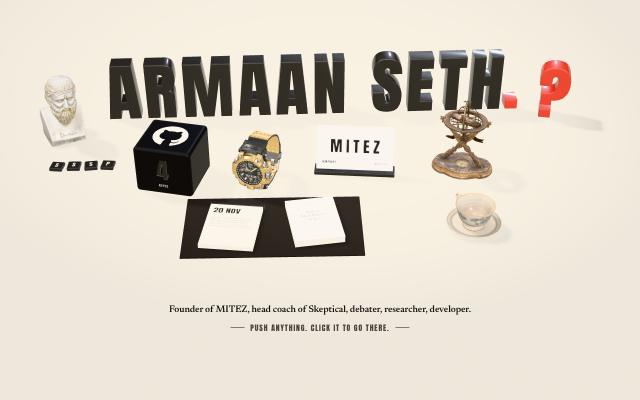
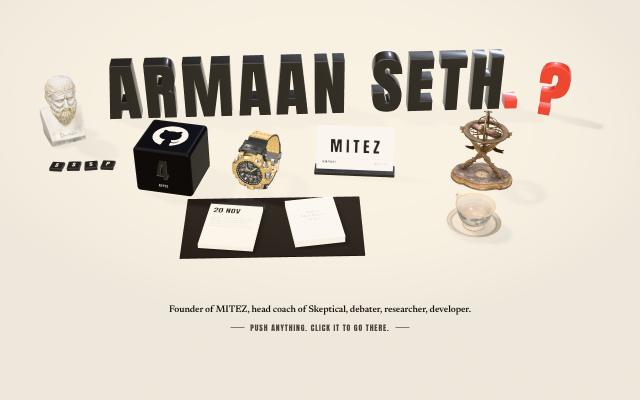
The playground: a readable question mark
The question mark is thinner and turned to the camera so its dot reads apart from the stem, and the armillary sphere moves forward so it no longer covers the name.

Claude-Session: https://claude.ai/code/session_0129Z1HKzzPByjKYNFNctDJA

Changed region(s): [[0.6562, 0.24, 0.8125, 0.48], [0.8438, 0.15, 0.9062, 0.3]]

diff --git a/src/versions/playground/Stage.tsx b/src/versions/playground/Stage.tsx
@@ -287,12 +287,13 @@ function buildThing(id: ThingId, k: Kit): Built {
     }
     case 'skeptical': default: {
       const o = letter('?', 1.5, k.low ? 4 : 7);
-      const geo = toCreasedNormals(solid(o, 0.5, 0.034, k.low ? 2 : 4), 0.7); k.own(geo);
+      const QD = 0.28; // thin enough that the dot reads apart from the stem from the raised opening camera
+      const geo = toCreasedNormals(solid(o, QD, 0.03, k.low ? 2 : 4), 0.7); k.own(geo);
       const g = new THREE.Group(); g.add(shadowed(new THREE.Mesh(geo, M.red)));
       const cols: Desc[] = [];
-      for (const h of hulls(o, 0.5)) { const d = k.R.ColliderDesc.convexHull(h); if (d) cols.push(d as unknown as Desc); }
-      cols.push(cub(k, o.w / 2, 0.03, 0.25 - 0.004, 0, -o.h / 2 + 0.03, 0));
-      return { obj: g, half: v3(o.w / 2, o.h / 2, 0.25), cols, density: 1 };
+      for (const h of hulls(o, QD)) { const d = k.R.ColliderDesc.convexHull(h); if (d) cols.push(d as unknown as Desc); }
+      cols.push(cub(k, o.w / 2, 0.03, QD / 2 - 0.004, 0, -o.h / 2 + 0.03, 0));
+      return { obj: g, half: v3(o.w / 2, o.h / 2, QD / 2), cols, density: 1 };
     }
   }
 }

diff --git a/src/versions/playground/plan.ts b/src/versions/playground/plan.ts
@@ -69,12 +69,12 @@ export function makePlan(phone: boolean): Plan {
     const w = width(NAME), x0 = -w / 2 - 0.35, x1 = row(NAME, x0, 0, letters);
     const L = (i: number) => letters[i];
     const spots: Record<ThingId, Spot> = {
-      skeptical: { x: x1 + 0.82, z: 0.55, ry: deg(-14) },
+      skeptical: { x: x1 + 0.82, z: 0.55, ry: deg(-21) },
       plato: { x: x0 - 1.0, z: 1.1, ry: deg(22) },
       github: { x: -4.0, z: 3.15, ry: deg(-16) },
       watch: { x: -1.85, z: 3.40, ry: deg(-24) },
       mitez: { x: 0.45, z: 3.10, ry: deg(-7) },
-      armillary: { x: 3.15, z: 3.05, ry: deg(-30) },
+      armillary: { x: 3.55, z: 3.55, ry: deg(-30) },
       notepad: { x: -2.55, z: 5.30, ry: deg(-9), y: PAD_H },
       paper: { x: -0.65, z: 5.25, ry: deg(7), y: PAD_H },
       tea: { x: 3.0, z: 5.45, ry: deg(30) },
